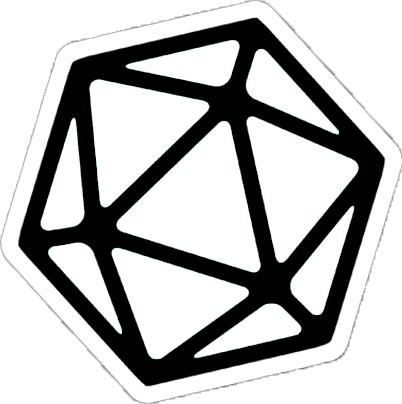
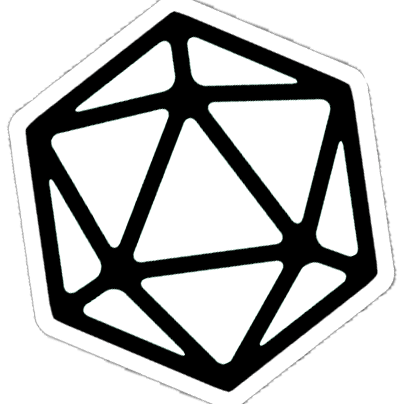
feat: dice roll #home

diff --git a/html/home/index.html b/html/home/index.html
@@ -33,7 +33,7 @@
                 </div>
                 <div class="d-flex align-self-end justify-content-center justify-content-sm-start col-12 col-sm-6 mx-auto order-2 order-sm-1">
                   <div class="d-sm-flex align-items-start justify-content-start">
-                    <img src="../../img_modif/white_dice-min.webp" alt="Dé blanc" id="white-dice">
+                    <img src="../../img_modif/white_dice-min.png" alt="Dé blanc" id="white-dice">
                     <img src="../../img_modif/green_dice-min.webp" alt="Dé vert" id="green-dice">
                   </div>
                 </div>
@@ -137,7 +137,7 @@
           </div>
           <div class="mt-3 mx-md-1 footer__line border mx-auto mx-md-0 bg-light" style="height: 90%; width: 90px"></div>
           <div class="my-3 me-md-5 me-lg-0 d-flex justify-content-evenly justify-content-md-between align-self-center" style="height: fit-content;width: 300px">
-            <a class="footer__link text-decoration-none text-white fs-5" href="../home/index.html" style="transition: .5s;">Accueil & Presentation</a>
+            <a class="footer__link text-decoration-none text-white fs-5" href="../events/event-contact.html" style="transition: .5s;">Accueil & Presentation</a>
             <a class="text-decoration-none text-white" href="https://www.facebook.com/desaventures" target="_blank"><i class="fa-brands fa-facebook fa-2xl"></i></a>
           </div>
         </footer>

diff --git a/css/styles.css b/css/styles.css
@@ -33,9 +33,7 @@
   --t-Dés : 15%;
   --t-gDice : 8%;
   --left-wDice : 15%;
-  --left-gDice : -10%;
-
-  --rotate-wDice : rotate(-25deg);
+  --left-gDice : -12%;
 
   --dice-400 : clamp(50px, 8vw, 100px);
   --dice-500 : clamp(80px, 15vw, 150px);
@@ -151,12 +149,37 @@ button {
   position: relative;
 }
 #white-dice {
-  transform: var(--rotate-wDice);
   left: var(--left-wDice);
 }
 #green-dice {
   left: var(--left-gDice);
   top: var(--t-gDice);
+}
+.Gdice__move-in {
+  animation: 2.5s ease-out WmoveIn;
+}
+.Wdice__move-in {
+  animation: 2s ease-out WmoveIn;
+}
+@keyframes GmoveIn {
+  from {
+    transform: translateX(150%) rotate(0);
+  }
+  to {
+    transform: translateX(0) rotate(120deg);
+  }
+}
+@keyframes WmoveIn {
+  from {
+    transform: translateX(200%) rotate(0);
+  }
+  to {
+    transform: translateX(0) rotate(360deg);
+  }
+}
+
+@keyframes dicesWiggleWiggle {
+
 }
 @keyframes upAndDown {
   from {

diff --git a/js/nav.js b/js/nav.js
@@ -75,7 +75,7 @@ const headerElement = new ElementNav(
   ["header__nav","position-fixed", "d-flex", "justify-content-center", "align-content-end"]);
 const ButtonElement = new ElementNav(
   buttonNav, 
-  ["button-nav","mt-4","d-flex","rounded-3","bg-dark", 'text-light'],
+  ["button-nav","mt-4","d-flex","rounded-3","bg-dark", 'text-light', 'px-1'],
   header);
 const PNavElement = new ElementNav(
   pNav,

diff --git a/js/script.js b/js/script.js
@@ -1,1 +1,8 @@
-const buttonMenu = document.querySelector('.button-nav');
+// Dices animation
+/// Variables :
+const whiteDice = document.querySelector('#white-dice');
+const greenDice = document.querySelector('#green-dice');
+
+///Fonctions :
+greenDice.classList.add('Gdice__move-in');
+whiteDice.classList.add('Wdice__move-in');
